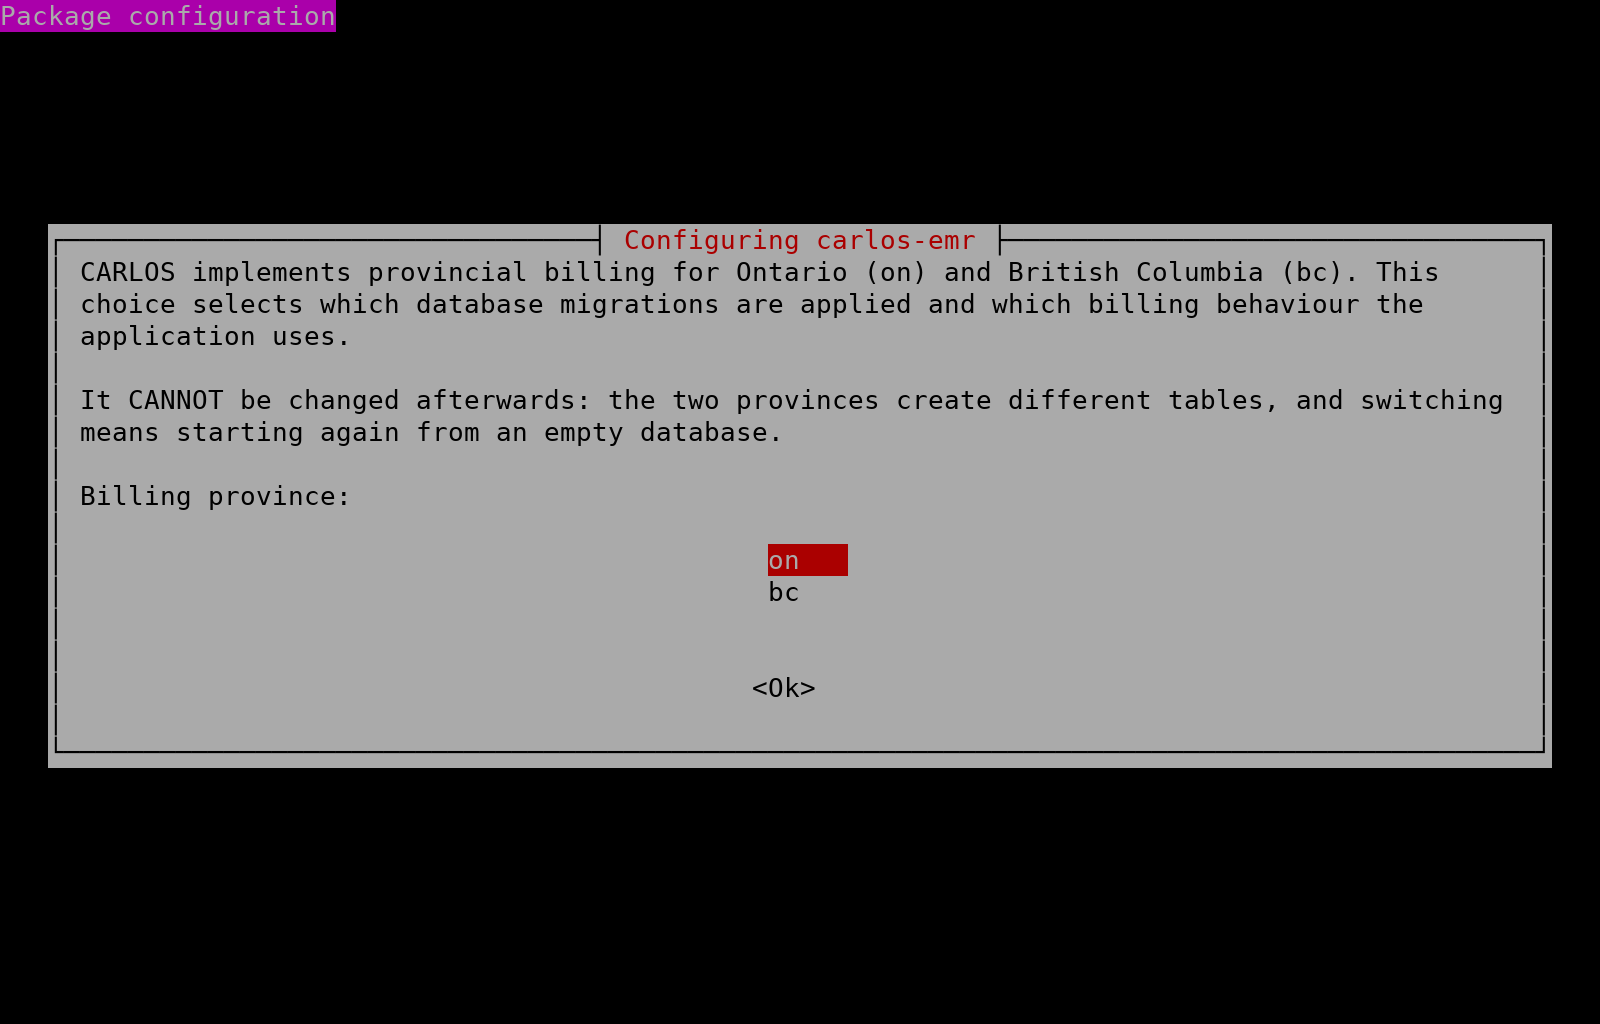
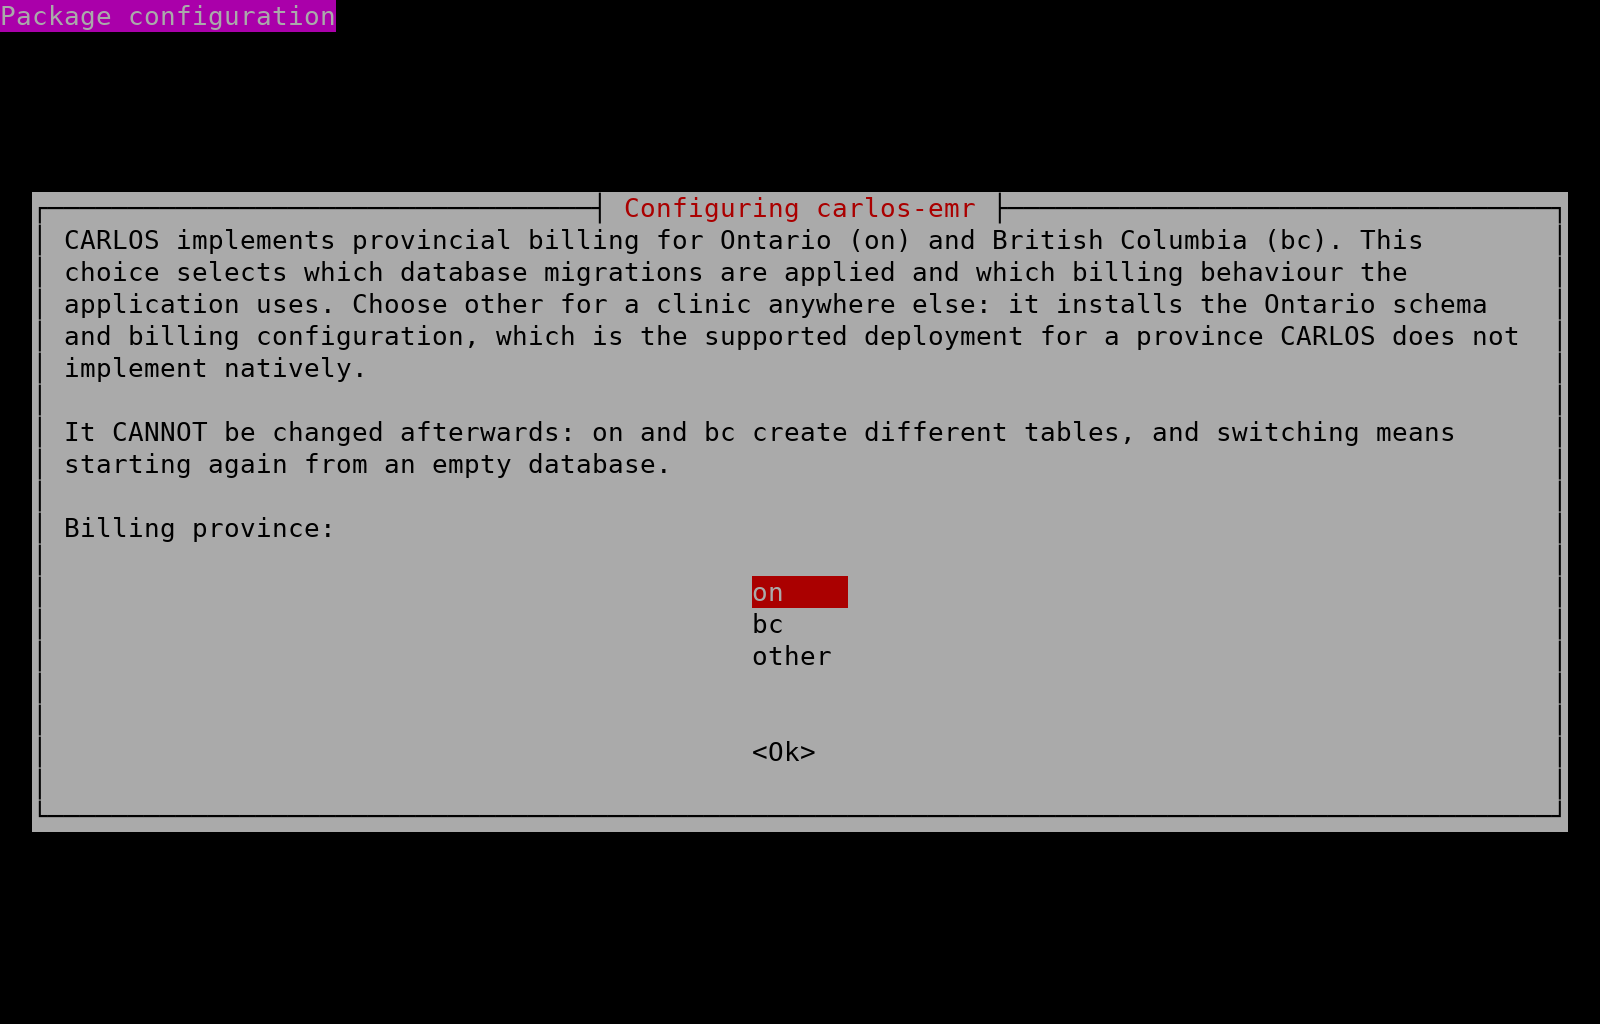
feat(deb): offer "other" as a third billing-province answer
The installer's billing-province question offered only Ontario and British
Columbia, so a clinic anywhere else had to claim a province it is not in.
Add a third answer, "other", listed below the two.

It is an ALIAS for the Ontario answer, not a third jurisdiction: it applies
the same common+on migrations and renders the same billregion=ON, so the
deployment is an Ontario one in every respect and nothing downstream
distinguishes the two. Rendering a distinct billregion would not give a
neutral install but a broken one — Billing2Action is
`return "ON".equals(region) ? "ON" : "BC";`, so the Billing tab would chain
into the BC screens against tables the Ontario migrations never create;
around forty JSP and Java sites do an exact .equals("ON"); and
FlywaySchemaValidator normalises only ON/BC, so its boot-time cross-check of
carlos.flyway.locations against billregion would stop covering the
deployment. A common-only schema is not an option either: the baseline
carries zero rows, and carlosdoc is seeded only by the province data files.

CARLOS_PROVINCE keeps the operator's answer verbatim for the record;
everything derived from it resolves through the new schema_province alias, so
config.py is the single place the mapping lives. dbops.py's three province
reads follow it, which leaves the demo path selecting the shipped
demo-additive-on.sql.gz and the BC specialist-directory replacement BC-only.
No application, migration, packaging-rules or maintainer-script change is
needed.
[…]

Changed region(s): [[0.0, 0.1875, 1.0, 0.8125], [0.4688, 0.5312, 0.5312, 0.6875]]

diff --git a/debian/assets/carlos_ctl/config.py b/debian/assets/carlos_ctl/config.py
@@ -19,6 +19,21 @@ from .util import (
 )
 
 
+# CARLOS_PROVINCE answer -> the migration/billing province it resolves to.
+# 'other' is a deliberate ALIAS for Ontario, not a third jurisdiction: the WAR
+# ships only common/on/bc migration locations, and the application recognises
+# only ON and BC. Rendering billregion=OTHER would not give a neutral install,
+# it would give a broken one — Billing2Action is
+# `return "ON".equals(region) ? "ON" : "BC";`, so the Billing tab would chain
+# into the BC screens against tables the on migrations never create; ~40 JSP
+# and Java sites do an exact .equals("ON"); and FlywaySchemaValidator
+# normalises only ON/BC, so its boot-time cross-check of
+# carlos.flyway.locations against billregion would stop covering this
+# deployment. So the operator's answer is kept verbatim in carlos-emr.env for
+# the record, and everything derived from it goes through schema_province.
+PROVINCE_SCHEMA = {"on": "on", "bc": "bc", "other": "on"}
+
+
 class Settings:
     """The carlos-emr.env values every verb needs, validated once."""
 
@@ -39,12 +54,15 @@ class Settings:
         # every command.
         if not re.fullmatch(r"[A-Za-z0-9_]+", self.db_name):
             die(f"CARLOS_DB_NAME ('{self.db_name}') must be a plain identifier (A-Za-z0-9_)")
-        if self.province not in ("on", "bc"):
-            die(f"CARLOS_PROVINCE ('{self.province}') must be 'on' or 'bc'")
+        if self.province not in PROVINCE_SCHEMA:
+            die(f"CARLOS_PROVINCE ('{self.province}') must be 'on', 'bc' or 'other'")
+        # The province whose migrations and billregion this install actually
+        # gets; identical to self.province except for the 'other' alias above.
+        self.schema_province = PROVINCE_SCHEMA[self.province]
 
     @property
     def flyway_locations(self) -> str:
-        return f"classpath:db/migration/common,classpath:db/migration/{self.province}"
+        return f"classpath:db/migration/common,classpath:db/migration/{self.schema_province}"
 
 
 def load() -> Settings:
@@ -58,7 +76,7 @@ def cmd_init_config(argv) -> int:
         die(f"{PROPERTIES} does not exist; reinstall the package")
 
     doc = f"{STATE}/CarlosDocument/carlos"
-    province_uc = s.province.upper()
+    province_uc = s.schema_province.upper()
 
     # JDBC parameters, and why each one is here:
     #   zeroDateTimeBehavior=round        the OSCAR-lineage schema contains
@@ -245,7 +263,11 @@ def cmd_init_config(argv) -> int:
         os.chmod(os.path.join(ngx, "proxy-params.conf"), 0o644)
     if not os.path.exists(os.path.join(ngx, "stapling.conf")):
         _write(os.path.join(ngx, "stapling.conf"), "# Managed by carlos-emr-cert.\n")
-    log(f"configuration rendered for {s.server_name} (province {province_uc})")
+    # Report the declared answer alongside what it resolved to: an operator who
+    # answered 'other' would otherwise find billregion=ON with nothing saying why.
+    province_note = (province_uc if s.province == s.schema_province
+                     else f"{s.province} -> {province_uc}")
+    log(f"configuration rendered for {s.server_name} (province {province_note})")
 
     # RENDERING IS NOT APPLYING — finish the job so the operator loop is
     # simply "edit carlos-emr.env, run carlos-ctl init-config":

diff --git a/debian/assets/carlos_ctl/dbops.py b/debian/assets/carlos_ctl/dbops.py
@@ -827,7 +827,7 @@ def _demo_assemble_stream(s, out, artifact: str, pieces: list) -> None:
     # columns added after 2012.
     out.write("SET SESSION sql_mode='';\n")
     out.write("SET FOREIGN_KEY_CHECKS=0;\n")
-    if s.province == "bc":
+    if s.schema_province == "bc":
         # The sanctioned exception to add-only: swap the real BC
         # specialist directory for the fake demo list. bc/V1.0.6 seeds it
         # into THREE tables — billingreferral (~10,700 referring
@@ -868,7 +868,7 @@ def cmd_demo_data(argv) -> int:
     require_db_root()
     s = config.load()
 
-    artifact = os.path.join(DEMO_DIR, f"demo-additive-{s.province}.sql.gz")
+    artifact = os.path.join(DEMO_DIR, f"demo-additive-{s.schema_province}.sql.gz")
     if not os.path.isfile(artifact):
         die(f"{artifact} is missing — this carlos-emr package was built "
             "without the demonstration dataset (reinstall the package)")
@@ -963,7 +963,7 @@ def cmd_demo_data(argv) -> int:
         os.path.join(DEMO_DIR, "demo-hrm-report.sql"),
         os.path.join(DEMO_DIR, "demo-name-sanitization.sql"),
     ]
-    if s.province == "on":
+    if s.schema_province == "on":
         # formLabReq07/10 exist only in the Ontario schema; the BC load would
         # fail on the missing tables.
         pieces.append(os.path.join(DEMO_DIR, "demo-name-sanitization-on.sql"))

diff --git a/docs/install-deb.md b/docs/install-deb.md
@@ -102,8 +102,13 @@ The application server and database always listen on loopback only.
 
 ![Listen address question](images/install/02-bind-ip.png)
 
-**3. Billing province** — Ontario (`on`) or British Columbia (`bc`).
-**This one is permanent** — the two provinces create different tables.
+**3. Billing province** — Ontario (`on`), British Columbia (`bc`), or `other`.
+Pick `other` for a clinic anywhere else: it installs the Ontario schema and
+billing configuration, so the deployment is an Ontario one in every respect —
+it exists as a separate answer only so you are not asked to claim a province
+you are not in. **This one is permanent** — `on` and `bc` create different
+tables, and although `dpkg-reconfigure` will show the question again, the
+answer is not written back.
 
 ![Billing province question](images/install/03-province.png)
 

diff --git a/docs/ui-tests/deb-install-validation.md b/docs/ui-tests/deb-install-validation.md
@@ -94,6 +94,10 @@ critical answer: it keeps the published dev credential
 it **only** on a disposable machine that will never hold patient data — which
 this VM is.
 
+The province answer also accepts `other`, which resolves to the Ontario schema
+and `billregion=ON` — preseeding it exercises the alias without changing what
+gets installed.
+
 ```bash
 cat > /tmp/carlos-preseed.txt <<'EOF'
 carlos-emr carlos-emr/server-name string localhost
